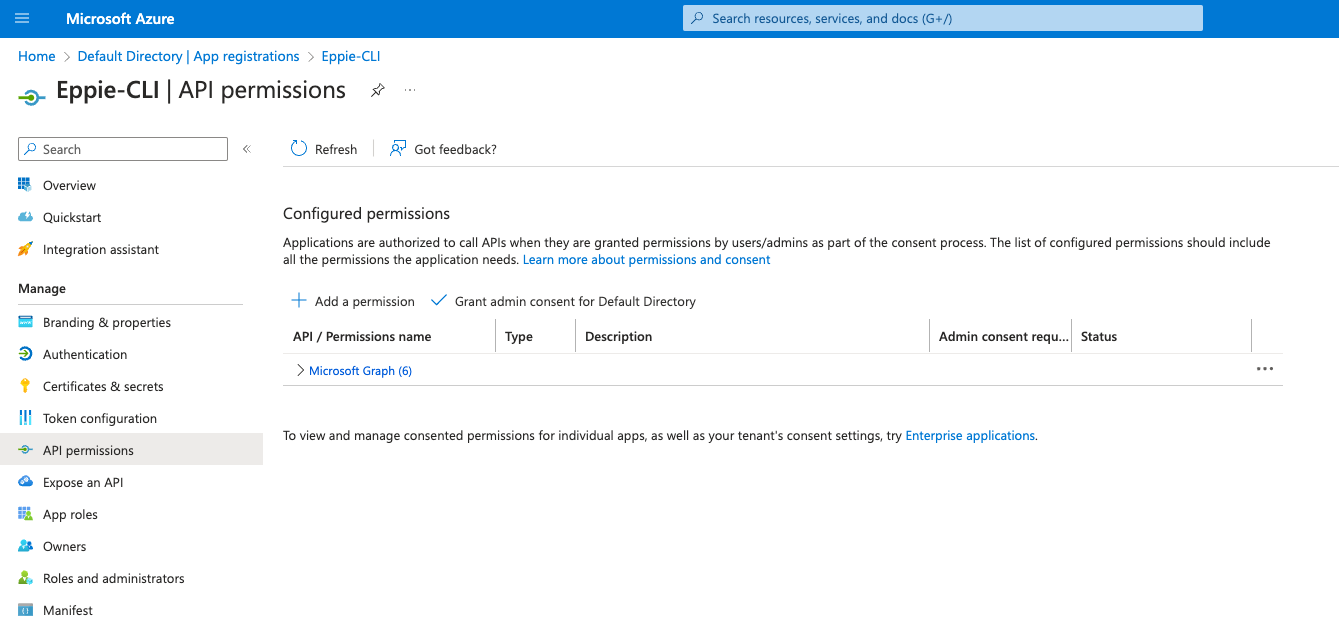
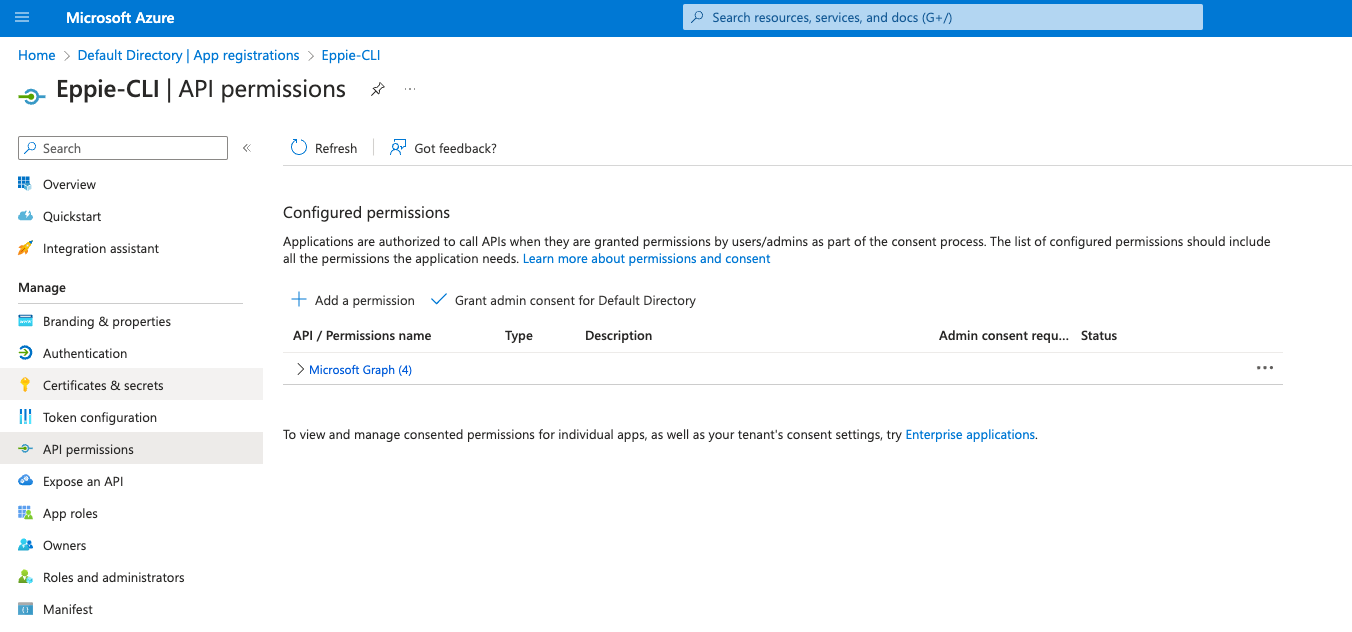
remove redundant permissions from microsoft outlook authorization tutorial

diff --git a/docs/Register the application.md b/docs/Register the application.md
@@ -80,9 +80,9 @@ Choose **Microsoft Graph** from the side menu.
 
 ![Microsoft Graph](images/outlook/outlook6.png)
 
-Eppie needs permissions to read and write into your mailbox, send new emails and see your profile. Look for theses checkboxes:
+Select **Delegated permissions**. Eppie needs permissions to read and write into your mailbox, send new emails and see your profile. Look for theses checkboxes:
 
-**email**, **offline_access** and **profile** within **OpenId permissions**,
+**OpenId permissions > offline_access**,
 
 ![OpenId permissions](images/outlook/outlook7.png)
 
